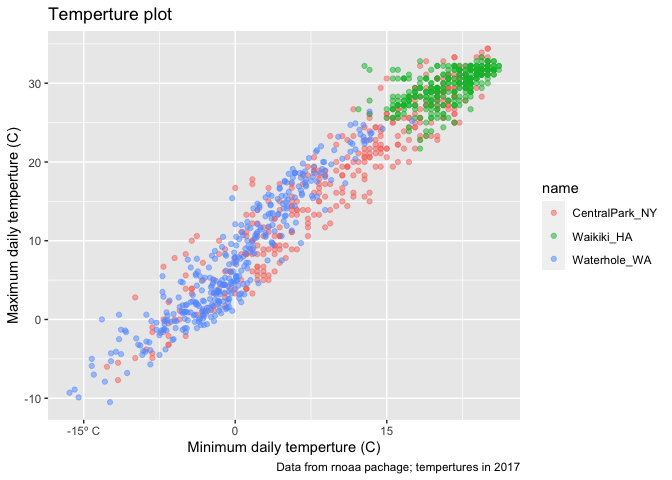
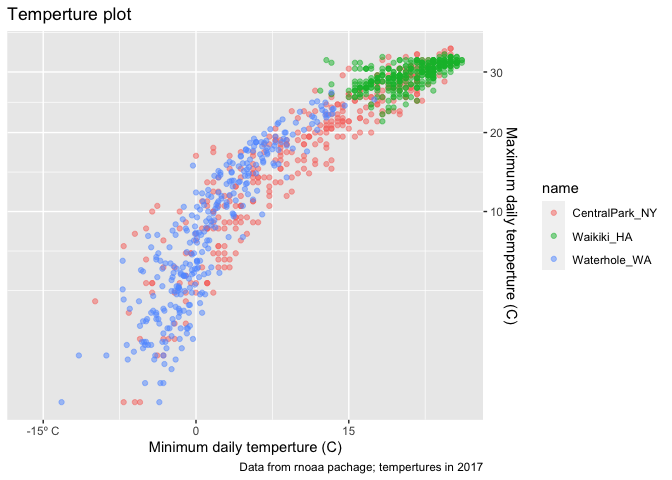
update themes

Changed region(s): [[0.0, 0.0, 0.7812, 0.9062], [0.2188, 0.875, 0.7812, 1.0], [0.5625, 0.875, 0.5938, 0.9062]]

diff --git a/vis_ii.md b/vis_ii.md
@@ -18,7 +18,10 @@ library(tidyverse)
 
 ``` r
 library(patchwork)
+library(viridis)
 ```
+
+    ## Loading required package: viridisLite
 
 ## Load the weather data
 
@@ -103,7 +106,7 @@ weather_df %>%
     title = "Temperture plot",
     x = "Minimum daily temperture (C)",
     y = "Maximum daily temperture (C)",
-    caption = "Data from rnoaa pachage; tempertures in 2017"
+    caption = "Data from rnoaa pachage with three stations; tempertures in 2017"
   )
 ```
 
@@ -128,9 +131,93 @@ weather_df %>%
   scale_x_continuous(
     breaks = c(-15, 0, 15), 
     labels = c("-15º C", "0", "15")
+  ) +
+  scale_y_continuous(
+    trans = "sqrt",
+    position = "right"
   )
+```
+
+    ## Warning in self$trans$transform(x): NaNs produced
+
+    ## Warning: Transformation introduced infinite values in continuous y-axis
+
+    ## Warning: Removed 90 rows containing missing values (geom_point).
+
+![](vis_ii_files/figure-gfm/unnamed-chunk-4-1.png)<!-- -->
+
+Colors
+
+``` r
+weather_df %>% 
+  ggplot(aes(x = tmin, y = tmax)) + 
+  geom_point(aes(color = name), alpha = .5) + 
+  labs(
+    title = "Temperature plot",
+    x = "Minimum daily temperature (C)",
+    y = "Maxiumum daily temperature (C)",
+    caption = "Data from the rnoaa package") + 
+  scale_x_continuous(
+    breaks = c(-15, 0, 15), 
+    labels = c("-15ºC", "0", "15"),
+    limits = c(-20, 30)) + 
+  scale_y_continuous(
+    trans = "sqrt", 
+    position = "right") +
+  scale_color_hue(name = "Location", h = c(100, 300))
+```
+
+    ## Warning in self$trans$transform(x): NaNs produced
+
+    ## Warning: Transformation introduced infinite values in continuous y-axis
+
+    ## Warning: Removed 90 rows containing missing values (geom_point).
+
+![](vis_ii_files/figure-gfm/unnamed-chunk-5-1.png)<!-- -->
+
+## viridis pacakge
+
+``` r
+ggp_temp_plot = 
+  weather_df %>% 
+  ggplot(aes(x = tmin, y = tmax)) + 
+  geom_point(aes(color = name), alpha = .5) + 
+  labs(
+    title = "Temperature plot",
+    x = "Minimum daily temperature (C)",
+    y = "Maxiumum daily temperature (C)",
+    caption = "Data from the rnoaa package"
+  ) + 
+  viridis::scale_color_viridis(
+    name = "Location", 
+    discrete = TRUE
+  )
+
+ggp_temp_plot
 ```
 
     ## Warning: Removed 15 rows containing missing values (geom_point).
 
-![](vis_ii_files/figure-gfm/unnamed-chunk-4-1.png)<!-- -->
+![](vis_ii_files/figure-gfm/unnamed-chunk-6-1.png)<!-- -->
+
+## Themes
+
+``` r
+weather_df %>% 
+  ggplot(aes(x = tmin, y = tmax)) + 
+  geom_point(aes(color = name), alpha = .5) + 
+  labs(
+    title = "Temperature plot",
+    x = "Minimum daily temperature (C)",
+    y = "Maxiumum daily temperature (C)",
+    caption = "Data from the rnoaa package"
+  ) + 
+  scale_color_viridis_d() +
+  theme_minimal() +
+  ##ggthemes::theme_excel() + ##order matters, the overall theme would change to default theme settings
+  theme(legend.position = "bottom")
+```
+
+    ## Warning: Removed 15 rows containing missing values (geom_point).
+
+![](vis_ii_files/figure-gfm/unnamed-chunk-7-1.png)<!-- -->
